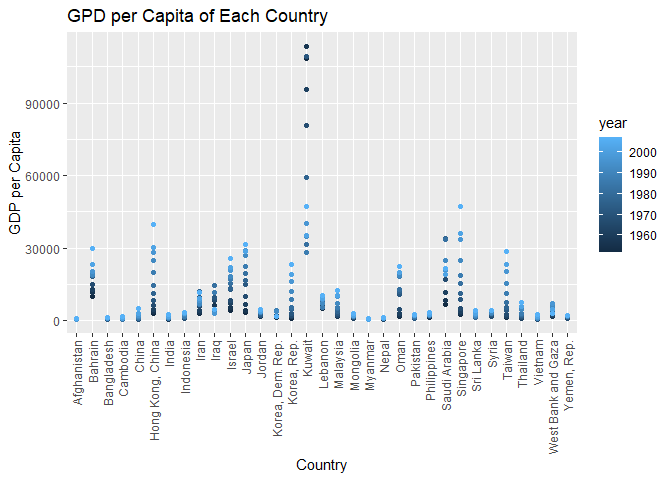
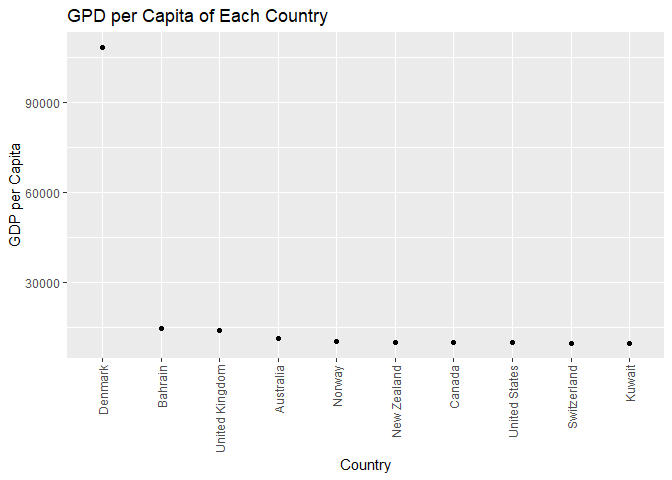
update challenge 4

diff --git a/challenges/c04-gapminder-assignment.md b/challenges/c04-gapminder-assignment.md
@@ -143,18 +143,13 @@ glimpse(gapminder)
 
 ``` r
 ## TASK: Find the largest and smallest values of `year` in `gapminder`
-year_max <- 2007
-year_min <- 1952
-
-gapminder %>% 
+year_max <- gapminder %>% 
+  pull(year) %>%
+  max()
+  
+year_min <- gapminder %>% 
   pull(year) %>%
   min()
-```
-
-    ## [1] 1952
-
-``` r
-  # year_max <- max(sub_year, na.rm = TRUE)
 ```
 
 Use the following test to check your work.
@@ -195,6 +190,14 @@ print("Nice!")
 
     ## [1] "Nice!"
 
+``` r
+gapminder %>%
+  filter(year == "1952", country == "Kuwait") %>%
+  pull(pop) 
+```
+
+    ## [1] 160000
+
 ### **q2** Filter on years matching `year_min`, and make a plot of the GDP per capita against continent. Choose an appropriate `geom_` to visualize the data. What observations can you make?
 
 You may encounter difficulties in visualizing these data; if so document
@@ -206,7 +209,7 @@ can.
 gapminder %>%
   filter(year == year_min) %>%
   ggplot() + 
-  geom_col(mapping = aes(x = continent, y = gdpPercap) , position = "dodge") +
+  geom_boxplot(mapping = aes(x = continent, y = gdpPercap)) +
   ylab("GDP per Capita") +
   xlab("Continent") +
   ggtitle("GPD per Capita of Each Continent")
@@ -227,24 +230,24 @@ gapminder %>%
 
 ``` r
 ## TASK: Identify the outliers from q2
-gapminder %>%
-  filter(continent == "Asia") %>%
-  ggplot() + 
-  geom_point(mapping = aes(x = country, y = gdpPercap, color = year), position = "dodge") +
+df_q3 <- gapminder %>%
+  filter(year == year_min) %>%
+  arrange(desc(gdpPercap))
+
+ggplot(df_q3[1:10, ]) + 
+  geom_point(mapping = aes(x = rev(reorder(country, gdpPercap)), y = gdpPercap)) +
   ylab("GDP per Capita") +
   xlab("Country") +
   guides(x =  guide_axis(angle = 90)) +
   ggtitle("GPD per Capita of Each Country")
 ```
 
-    ## Warning: Width not defined. Set with `position_dodge(width = ?)`
-
 ![](c04-gapminder-assignment_files/figure-gfm/q3-task-1.png)<!-- -->
 
 **Observations**:
 
 - Identify the outlier countries from q2
-  - Kuwait, Afghanistan, Bangladesh, Myanmar, and Nepal.
+  - Denmark, Bahrain, United Kingdom and Australia.
 
 *Hint*: For the next task, it’s helpful to know a ggplot trick we’ll
 learn in an upcoming exercise: You can use the `data` argument inside
@@ -371,63 +374,63 @@ Asia_means <- gapminder %>%
   group_by(year) %>%
   summarize(
     mean_gdp = mean(gdpPercap), 
-    mean_pop = mean(pop),
+    sum_pop = sum(pop)/1395357351,
     mean_exp = mean(lifeExp)
     ) 
 Asia_means
 ```
 
     ## # A tibble: 12 × 4
-    ##     year mean_gdp   mean_pop mean_exp
-    ##    <int>    <dbl>      <dbl>    <dbl>
-    ##  1  1952    5195.  42283556.     46.3
-    ##  2  1957    5788.  47356988.     49.3
-    ##  3  1962    5729.  51404763.     51.6
-    ##  4  1967    5971.  57747361.     54.7
-    ##  5  1972    8187.  65180977.     57.3
-    ##  6  1977    7791.  72257987.     59.6
-    ##  7  1982    7434.  79095018.     62.6
-    ##  8  1987    7608.  87006690.     64.9
-    ##  9  1992    8640.  94948248.     66.5
-    ## 10  1997    9834. 102523803.     68.0
-    ## 11  2002   10174. 109145521.     69.2
-    ## 12  2007   12473. 115513752.     70.7
+    ##     year mean_gdp sum_pop mean_exp
+    ##    <int>    <dbl>   <dbl>    <dbl>
+    ##  1  1952    5195.    1        46.3
+    ##  2  1957    5788.    1.12     49.3
+    ##  3  1962    5729.    1.22     51.6
+    ##  4  1967    5971.    1.37     54.7
+    ##  5  1972    8187.    1.54     57.3
+    ##  6  1977    7791.    1.71     59.6
+    ##  7  1982    7434.    1.87     62.6
+    ##  8  1987    7608.    2.06     64.9
+    ##  9  1992    8640.    2.25     66.5
+    ## 10  1997    9834.    2.42     68.0
+    ## 11  2002   10174.    2.58     69.2
+    ## 12  2007   12473.    2.73     70.7
 
 ``` r
 world_means <- gapminder %>% 
   group_by(year) %>%
   summarize(
     mean_gdp = mean(gdpPercap), 
-    mean_pop = mean(pop),
+    sum_pop = sum(pop)/2406957150,
     mean_exp = mean(lifeExp)
     )
 world_means
 ```
 
     ## # A tibble: 12 × 4
-    ##     year mean_gdp  mean_pop mean_exp
-    ##    <int>    <dbl>     <dbl>    <dbl>
-    ##  1  1952    3725. 16950402.     49.1
-    ##  2  1957    4299. 18763413.     51.5
-    ##  3  1962    4726. 20421007.     53.6
-    ##  4  1967    5484. 22658298.     55.7
-    ##  5  1972    6770. 25189980.     57.6
-    ##  6  1977    7313. 27676379.     59.6
-    ##  7  1982    7519. 30207302.     61.5
-    ##  8  1987    7901. 33038573.     63.2
-    ##  9  1992    8159. 35990917.     64.2
-    ## 10  1997    9090. 38839468.     65.0
-    ## 11  2002    9918. 41457589.     65.7
-    ## 12  2007   11680. 44021220.     67.0
+    ##     year mean_gdp sum_pop mean_exp
+    ##    <int>    <dbl>   <dbl>    <dbl>
+    ##  1  1952    3725.    1        49.1
+    ##  2  1957    4299.    1.11     51.5
+    ##  3  1962    4726.    1.20     53.6
+    ##  4  1967    5484.    1.34     55.7
+    ##  5  1972    6770.    1.49     57.6
+    ##  6  1977    7313.    1.63     59.6
+    ##  7  1982    7519.    1.78     61.5
+    ##  8  1987    7901.    1.95     63.2
+    ##  9  1992    8159.    2.12     64.2
+    ## 10  1997    9090.    2.29     65.0
+    ## 11  2002    9918.    2.45     65.7
+    ## 12  2007   11680.    2.60     67.0
 
 ``` r
-legend_colors <- c("Kuwait" = "blue", "Asian" = "red", "World" = "orange")
+legend_colors <- c("Kuwait" = "blue", "Asia mean" = "red", "World mean" = "orange")
 
 # creating point plots of means
 p1 <- ggplot() + 
   geom_line(data = Kuwait, aes(x = year, y = lifeExp, color = "Kuwait")) +
-  geom_line(data = Asia_means, aes(x = year, y = mean_exp, color = "Asian")) +
-  geom_line(data = world_means, aes(x = year, y = mean_exp, color = "World")) +
+  geom_line(data = Asia_means, aes(x = year, y = mean_exp, color = "Asia mean")) +
+  geom_line(data = world_means, aes(x = year, y = mean_exp, color = "World mean")) +
   ylab("Life Expectancy") +
   labs(color = "Region") + 
   scale_color_manual(values = legend_colors) + 
@@ -435,10 +438,10 @@ p1 <- ggplot() +
   theme_bw()
 
 p2 <- ggplot() +
-  geom_line(data = Kuwait, aes(x = year, y = pop), color = "blue") +
-  geom_line(data = Asia_means, aes(x = year, y = mean_pop), color = "red") +
-  geom_line(data = world_means, aes(x = year, y = mean_pop), color = "orange") +
-  ylab("Population") +
+  geom_line(data = Kuwait, aes(x = year, y = pop/160000), color = "blue") +
+  geom_line(data = Asia_means, aes(x = year, y = sum_pop), color = "red") +
+  geom_line(data = world_means, aes(x = year, y = sum_pop), color = "orange") +
+  ylab("Sum of Population (Compared to 1952)") +
   guides(x =  guide_axis(angle = 90)) +
   theme_bw()
 
